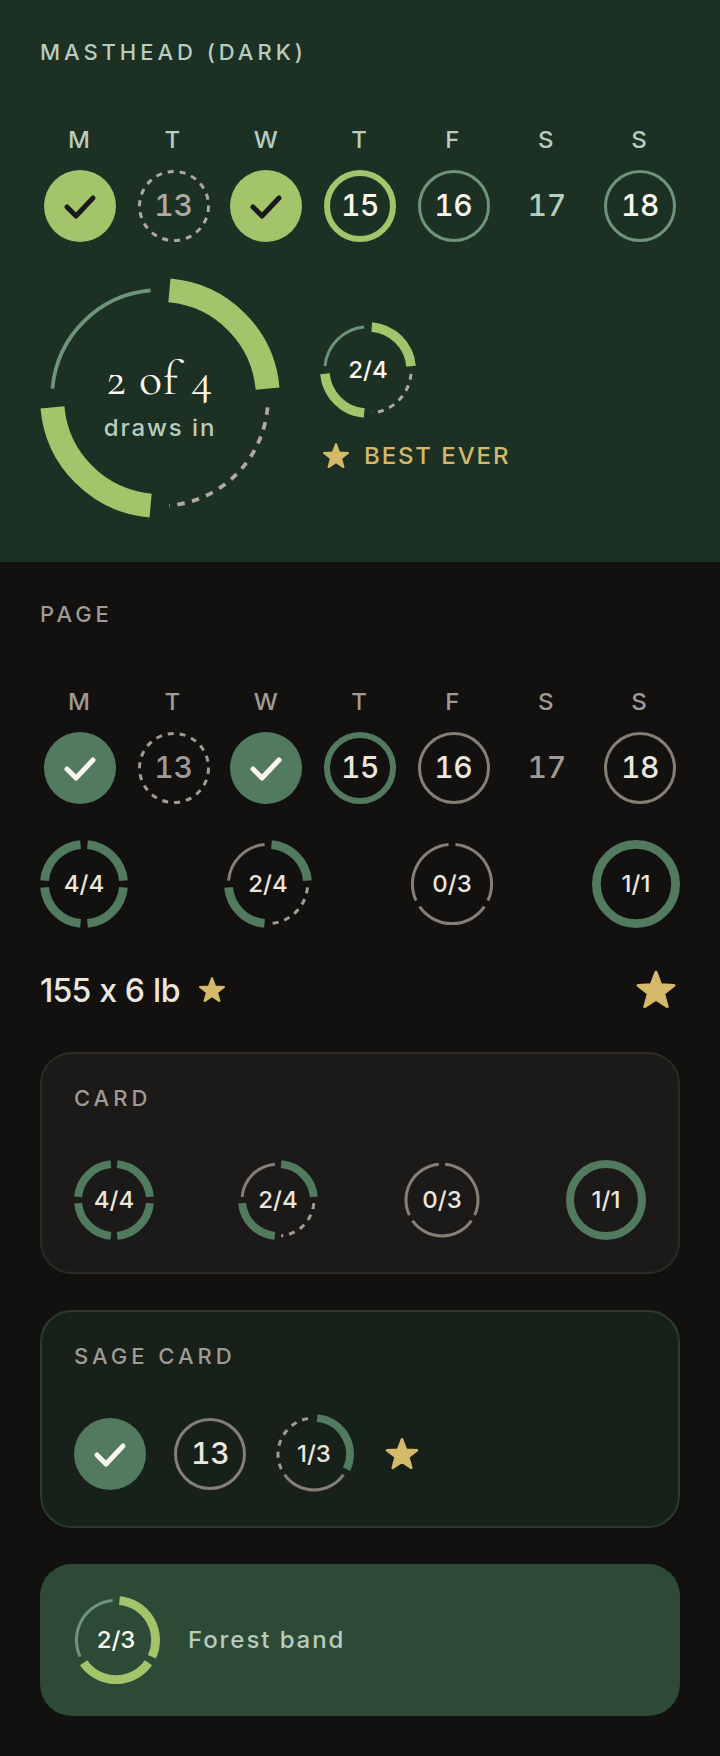
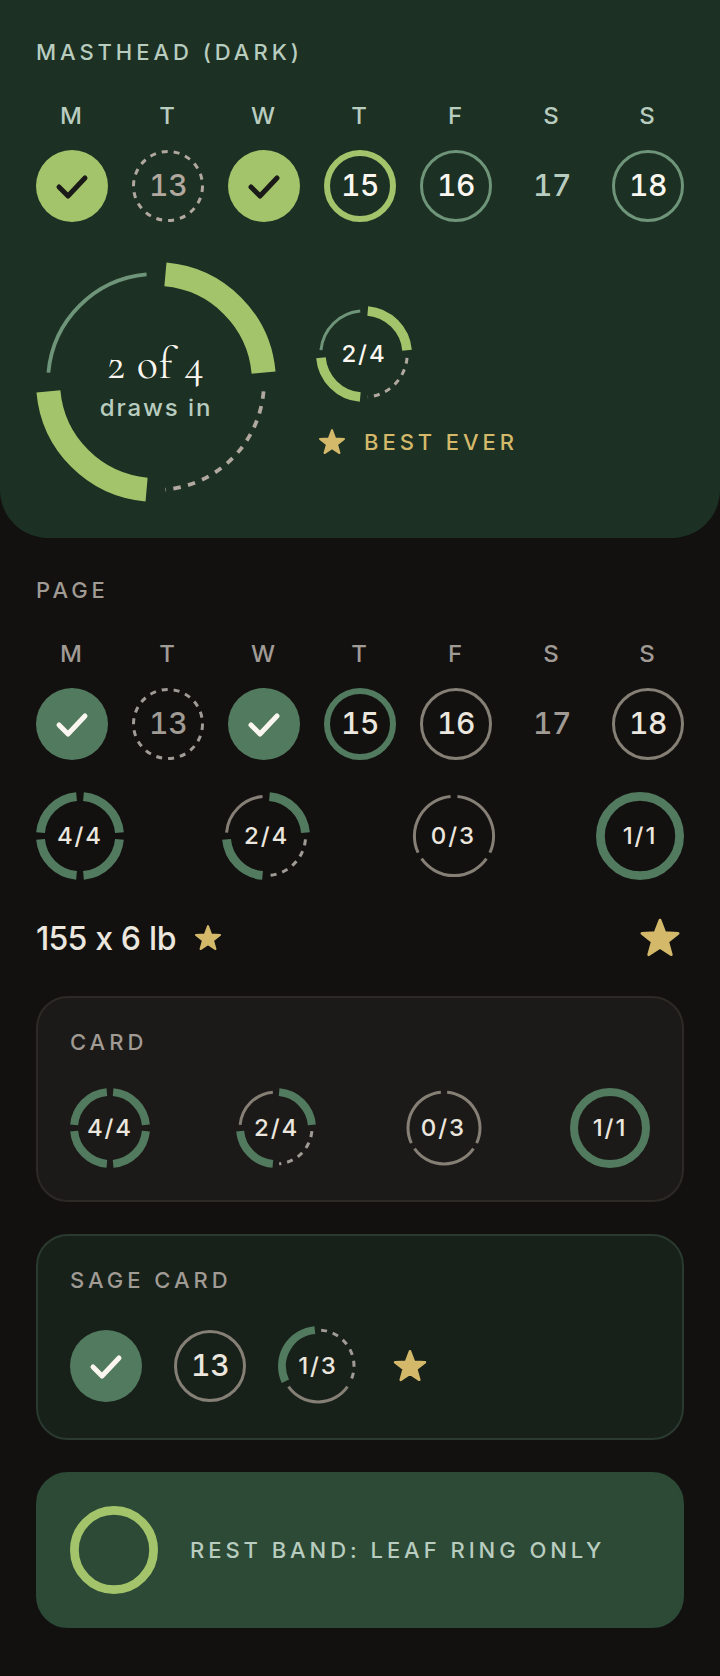
docs: [148] FIX718B — parts gallery re-rendered from the head code (rest band leaf-only, a return frame)

diff --git a/docs/ui-evidence/C1V2-C0/README.md b/docs/ui-evidence/C1V2-C0/README.md
@@ -2,11 +2,11 @@
 
 **These are React Native Web renders, not iPhone or Android device proof.** Native Dynamic Type, VoiceOver and TalkBack, and physical haptics are not shown; check on a TestFlight build before C3 ships the parts on a screen.
 
[2 lines of base64/hex data omitted]
 
 ## Method
 
-- Harness only (not committed): esbuild bundle through react-native-web; the theme hook returns the light or dark tokens by URL, because ThemeProvider is light-only at launch. Reduce Motion comes from the URL; the haptic is counted, not played.
+- Harness only (not committed), built from the op-143 esbuild screenshot tools: esbuild bundle through react-native-web; the theme hook returns the light or dark tokens by URL, because ThemeProvider is light-only at launch. Reduce Motion comes from the URL. Haptics and animation starts are counted, not played.
 - Viewports: iPhone-size 390 x 844 and Android-size 360 x 800 at 2x, full page. 130% multiplies text size and line height only, honouring `maxFontSizeMultiplier` (DayMark numbers cap at 1.3).
 - Clock is paused and stepped, so each frame is exact. Settled frames are taken at 1000 ms.
 
@@ -17,12 +17,28 @@ The gallery mounts the real `SegmentedRing`, `DayMark` and `PeakStar` from `src/
 | Light | [web-light-390-100](web-light-390-100.png) | [web-light-390-130](web-light-390-130.png) | [web-light-360-100](web-light-360-100.png) | [web-light-360-130](web-light-360-130.png) |
 | Dark | [web-dark-390-100](web-dark-390-100.png) | [web-dark-390-130](web-dark-390-130.png) | [web-dark-360-100](web-dark-360-100.png) | [web-dark-360-130](web-dark-360-130.png) |
 
-Motion (light, 390, 100%): [draw-in at 40 of 300 ms](web-motion-draw-40ms.png) shows the third segment of the large ring part drawn; [Reduce Motion at 25 of 150 ms](web-motion-reduce-fade-25ms.png) shows the whole segment fading in. [Contact sheet](contact-sheet.png): rows light, dark, motion.
+Motion (light, 390, 100%): [draw-in at 40 of 300 ms](web-motion-draw-40ms.png) shows the third segment of the large ring part drawing; [Reduce Motion at 25 of 150 ms](web-motion-reduce-fade-25ms.png) shows the whole segment fading in; [a return](web-motion-return-540ms.png) remounts the gallery at 500 ms with the same events, and 40 ms later the segment is already whole: the seen event mounts drawn, and the PNG is byte-identical to the settled web-light-390-100. [Contact sheet](contact-sheet.png): rows light, dark, motion.
 
-Each page shows, top to bottom: the masthead (`onDark`) with a seven-day strip in every DayMark state (done, missed, done, today, planned, rest, planned), a 120 pt ring whose third segment draws in, a 48 pt ring and a decorative star; then the page, a card, a sage card and the forest band with the light-ground marks, four history rings (4/4, 2/4 with a missed segment, 0/3, a one-session ring) and labelled stars.
-
-FIX718: the last row's ring on the forest band is no longer a supported pairing (its planned arc is 2.89:1, under 3:1); the parts take `onDark` on the masthead only. The fix round changed no drawn pixel on any supported pairing (event-keyed motion, no haptic in the parts, internal test IDs removed), so these renders stand.
+Each page shows, top to bottom: the masthead (`onDark`) with a seven-day strip in every DayMark state (done, missed, done, today, planned, rest, planned), a 120 pt ring whose third segment draws in (its `event`), a 48 pt ring and a decorative star; then the page, a white card and a sage card with the light-ground marks, four history rings (4/4, 2/4 with a missed segment, 0/3, a one-session ring) and labelled stars; last, the rest band (`onBand`) with the leaf ring only, its one supported mark.
 
 ## Measurements
 
-[measurements.jsonl](measurements.jsonl) has one line per capture (10): every part's size, role, label and `aria-hidden`, plus checks for parts off screen, page overflow, a DayMark number larger than its mark and clipped text. All 10 captures: no issues, no page errors, one success haptic per page (the drawing ring, before FIX718 moved the haptic to the Send handler). DayMark is 36 x 36 at both text sizes; the decorative star is `aria-hidden`; labelled stars and rings are `img` with their label. The parts are not tappable, so the 44 pt rule does not apply to them.
+[measurements.jsonl](measurements.jsonl) has one line per capture (11): every part's size, role, label and `aria-hidden`, plus checks for parts off screen, page overflow, a DayMark number larger than its mark and clipped text. All 11 captures: no issues, no page errors, 0 haptics from the parts (the Send to Sam tap owns the success haptic) and 1 animation start, the large ring's event; the return capture still counts 1 after its remount. DayMark is 36 x 36 at both text sizes; the decorative star is `aria-hidden`; labelled stars and rings are `img` with their label. The parts are not tappable, so the 44 pt rule does not apply to them.
+
+## Checksums
+
+| File | SHA-256 |
+|---|---|
[13 lines of base64/hex data omitted]
